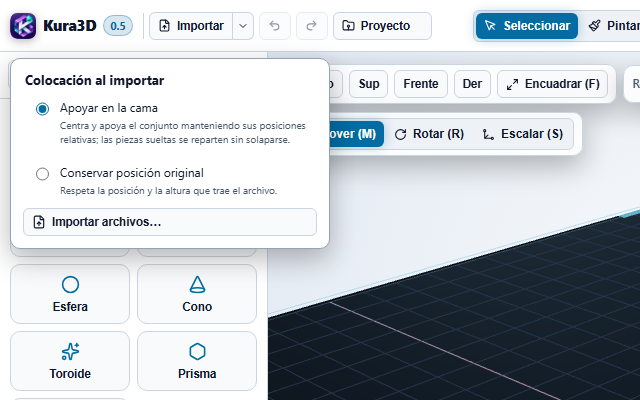
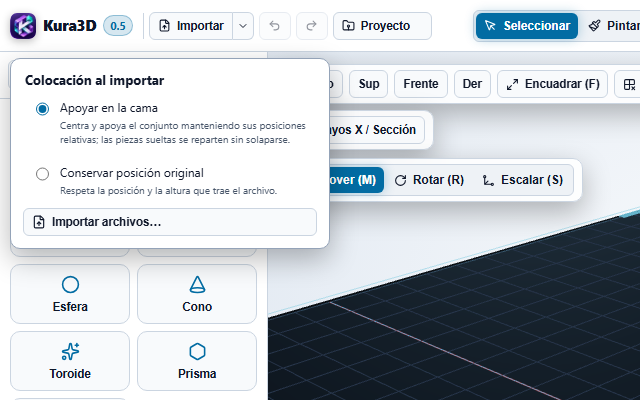
docs(guia): barra lateral de tres estados, vista sin cama, panel de Medir y diálogo de unidades
Primeros pasos, Medir e Importar y reparar al día; capturas regeneradas con npm run docs:capturas
(nuevas: primeros-pasos-05-barra-compacta, primeros-pasos-06-sin-cama, importar-y-reparar-05-otra-unidad)
y pasos nuevos en el generador. docs:enlaces sin enlaces rotos.

Changed region(s): [[0.5, 0.27, 0.9375, 0.54], [0.9375, 0.15, 1.0, 0.27]]

diff --git a/e2e/docs/capturas-importar.spec.ts b/e2e/docs/capturas-importar.spec.ts
@@ -21,7 +21,13 @@ test('importar-y-reparar', async ({ page }) => {
   await page.waitForTimeout(600);
   await page.mouse.move(720, 890);
   await page.screenshot({ path: 'docs/guia/img/importar-y-reparar-02-unidades.png' });
-  await page.getByRole('button', { name: 'Escalar ×100' }).first().click();
+  // «Otra unidad…»: diálogo con todas las opciones; se aplica la primera (×100).
+  await page.getByRole('button', { name: 'Otra unidad…' }).first().click();
+  const dialogo = page.getByRole('dialog', { name: '¿En qué unidad está este modelo?' });
+  await expect(dialogo).toBeVisible();
+  await page.waitForTimeout(400);
+  await captura(page, 'importar-y-reparar-05-otra-unidad', dialogo);
+  await page.getByTestId('unit-apply').click();
   await page.waitForTimeout(800);
   // Malla abierta: cubo sin una cara.
   await page.evaluate(() => (window as any).__s.setState({ objects: [], selectedIds: [] }));

diff --git a/e2e/docs/capturas.spec.ts b/e2e/docs/capturas.spec.ts
@@ -26,6 +26,15 @@ test('primeros-pasos', async ({ page }) => {
   await captura(page, 'primeros-pasos-02-interfaz');
   await captura(page, 'primeros-pasos-03-formas', IZQ);
   await captura(page, 'primeros-pasos-04-inspector', DER);
+  // Barra lateral compacta (con el tirador) y vista sin cama; al final se dejan como estaban.
+  await page.getByTestId('left-sidebar-handle').click();
+  await page.waitForTimeout(300);
+  await captura(page, 'primeros-pasos-05-barra-compacta', { x: 0, y: 0, width: 720, height: 520 });
+  await page.evaluate(() => (window as any).__s.getState().setLeftSidebarMode('full'));
+  await page.getByTestId('bed-toggle').click();
+  await page.waitForTimeout(500);
+  await captura(page, 'primeros-pasos-06-sin-cama');
+  await page.getByTestId('bed-toggle').click();
 });
 
 test('dividir-para-imprimir', async ({ page }) => {

diff --git a/e2e/docs/capturas-modelado.spec.ts b/e2e/docs/capturas-modelado.spec.ts
@@ -20,7 +20,7 @@ test('medir', async ({ page }) => {
   await page.waitForTimeout(500);
   await captura(page, 'medir-01-herramienta');
   const b = await cajaMundo(page, caja.id);
-  // Dos esquinas de la cara frontal derecha (visibles: el panel Medir tapa el lado izquierdo del visor).
+  // Dos esquinas de la cara frontal derecha (la cámara deja la pieza fuera del panel Medir).
   await clicMundo(page, [b.max[0], b.max[1], b.max[2]]);
   await clicMundo(page, [(b.min[0] + b.max[0]) / 2, (b.min[1] + b.max[1]) / 2, b.max[2]]);
   await page.waitForTimeout(500);

diff --git a/docs/guia/primeros-pasos.md b/docs/guia/primeros-pasos.md
@@ -7,7 +7,7 @@ Esta guía te lleva de la pantalla vacía a una escena con tres piezas que puede
 ![Kura3D recién abierto, con la escena vacía](img/primeros-pasos-01-vacio.png)
 
 - **Barra superior:** importar, deshacer y rehacer, el menú *Proyecto*, las herramientas (*Seleccionar*, *Pintar*, *Cortar*, *Esculpir / Borrar*, *Medir*) y *Exportar*. A la derecha: búsqueda de comandos, idioma, tema claro u oscuro, el estado del puente MCP, el asistente *IA*, el menú *Más* y *Ajustes*.
-- **Panel izquierdo:** la pestaña *Formas* (piezas para crear) y la pestaña *Escena* (lista de todo lo que hay).
+- **Panel izquierdo:** la pestaña *Formas* (piezas para crear) y la pestaña *Escena* (lista de todo lo que hay). Tiene tres estados (ver más abajo).
 - **Visor 3D:** la cama de tu impresora con la rejilla. Abajo ves el tamaño de la selección y la cama activa.
 - **Inspector (derecha):** nombre, color, medidas y posición del objeto seleccionado.
 - **Barra de estado:** unidad (mm), impresora, cantidad de objetos y triángulos, y *Atajos*.
@@ -34,6 +34,20 @@ Kura3D usa los mismos ejes que los laminadores: **X hacia la derecha, Y hacia el
 ## Mover la cámara
 
 Arrastra para orbitar y usa la rueda para acercar. Las teclas **1** (frente), **2** (derecha), **3** (isométrica) y **7** (superior) cambian la vista, y **F** encuadra lo seleccionado o toda la escena. El cubo de vistas de la esquina superior derecha también sirve.
+
+## Barra lateral: completa, compacta u oculta
+
+El tirador del borde del panel izquierdo (la pestaña con la flecha) recorre tres estados con cada clic: **completa** (iconos y texto), **compacta** (solo iconos, una columna angosta) y **oculta**. Con clic derecho sobre el tirador, o `Mayús+F10` con el foco en él, eliges uno directamente. También están en la paleta de comandos (**Ctrl+K**, «Barra lateral»). Kura3D recuerda tu elección, y el modo sin distracciones (**Ctrl+Mayús+Enter**) no la cambia.
+
+En la barra compacta cada icono muestra su nombre al pasar el cursor. La pestaña *Escena* no cabe en ella: pulsa su icono y luego **Expandir la barra** para ver la lista.
+
+![Barra lateral compacta: solo iconos de formas, generadores y acciones](img/primeros-pasos-05-barra-compacta.png)
+
+## Vista sin cama
+
+Para ver cómo encajan las piezas entre sí sin la cama de por medio, pulsa **Sin cama** en la barra de vistas del visor (o la tecla **B**, o clic derecho en el fondo del visor → *Vista sin cama*). Se ocultan la rejilla, la cama, el rótulo de la impresora, el volumen de impresión y las sombras; las piezas quedan flotando y puedes girar la vista por debajo para mirarlas desde abajo. Es solo una forma de ver: no cambia tus piezas ni lo que se exporta, y no se guarda en el proyecto. Si algo queda fuera del volumen de impresión, el aviso sigue en la línea inferior del visor. Vuelve a pulsar **Sin cama** (o **B**) para ver la cama otra vez.
+
+![Vista sin cama: las tres piezas flotando sobre un fondo neutro](img/primeros-pasos-06-sin-cama.png)
 
 ## Problemas frecuentes
 

diff --git a/docs/guia/importar-y-reparar.md b/docs/guia/importar-y-reparar.md
@@ -18,8 +18,11 @@ Un STL no dice en qué unidad está. Si el tamaño no parece razonable (por ejem
 
 1. Lee el aviso: por ejemplo «mide 0,9 mm en su lado mayor: puede que el archivo esté en otra unidad».
 2. Pulsa el botón del aviso (en el ejemplo, **Escalar ×100**; según el caso el factor puede ser otro, como ×1000 o ×25,4). Un solo **Ctrl+Z** lo revierte.
+3. Si sabes en qué unidad se dibujó, pulsa **Otra unidad…**: se abre *¿En qué unidad está este modelo?* con cada opción probable (metros ×1000, pulgadas ×25,4, centímetros ×10, otra escala) y el tamaño en que quedaría, más **Ajustar el lado mayor a** con un campo para escribir los milímetros que quieres. Elige una y pulsa **Aplicar**; también se deshace con un solo **Ctrl+Z**.
 
-![Aviso de unidades: la pieza mide 0,9 mm y se ofrece escalar ×100](img/importar-y-reparar-02-unidades.png)
+![Aviso de unidades: la pieza mide 0,9 mm y se ofrece escalar ×100 u otra unidad](img/importar-y-reparar-02-unidades.png)
+
+![Diálogo «¿En qué unidad está este modelo?» con las opciones y el tamaño resultante de cada una](img/importar-y-reparar-05-otra-unidad.png)
 
 ## Estado de la malla y reparación
 
